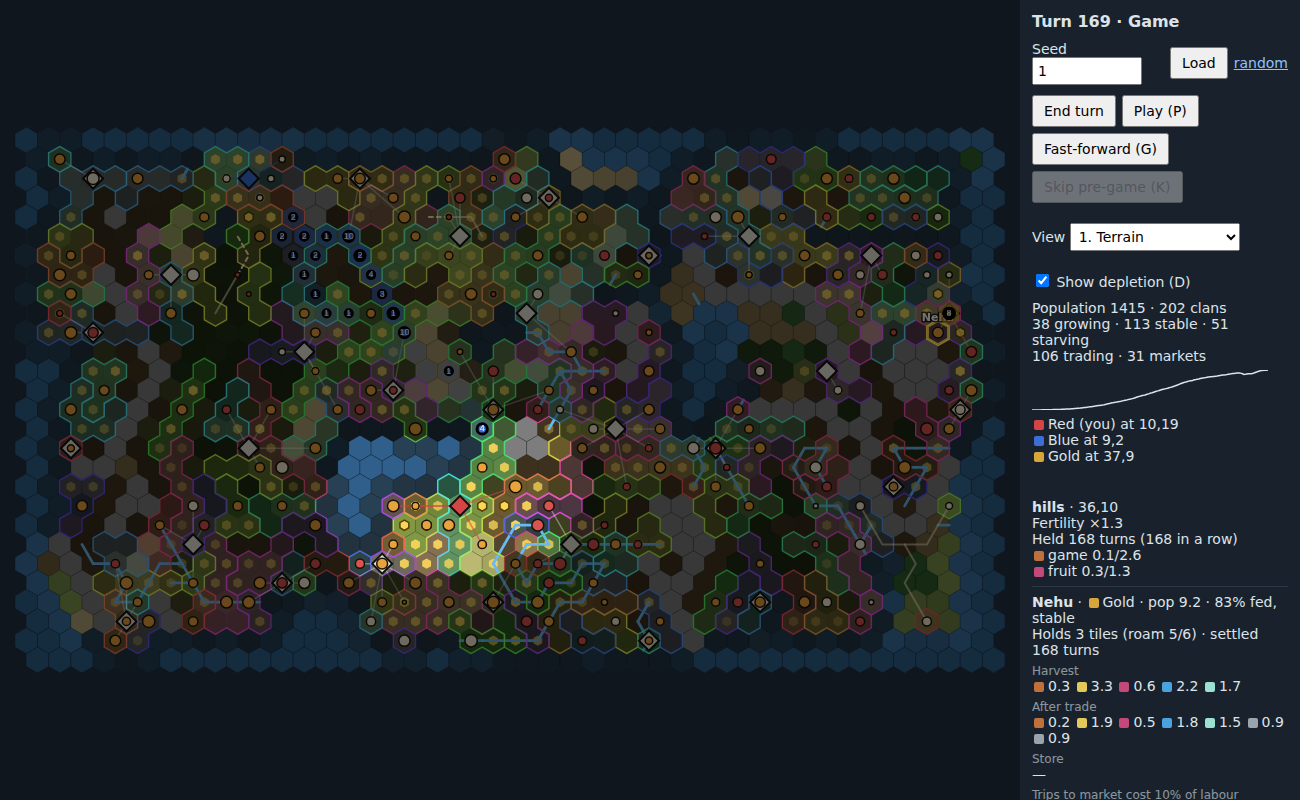
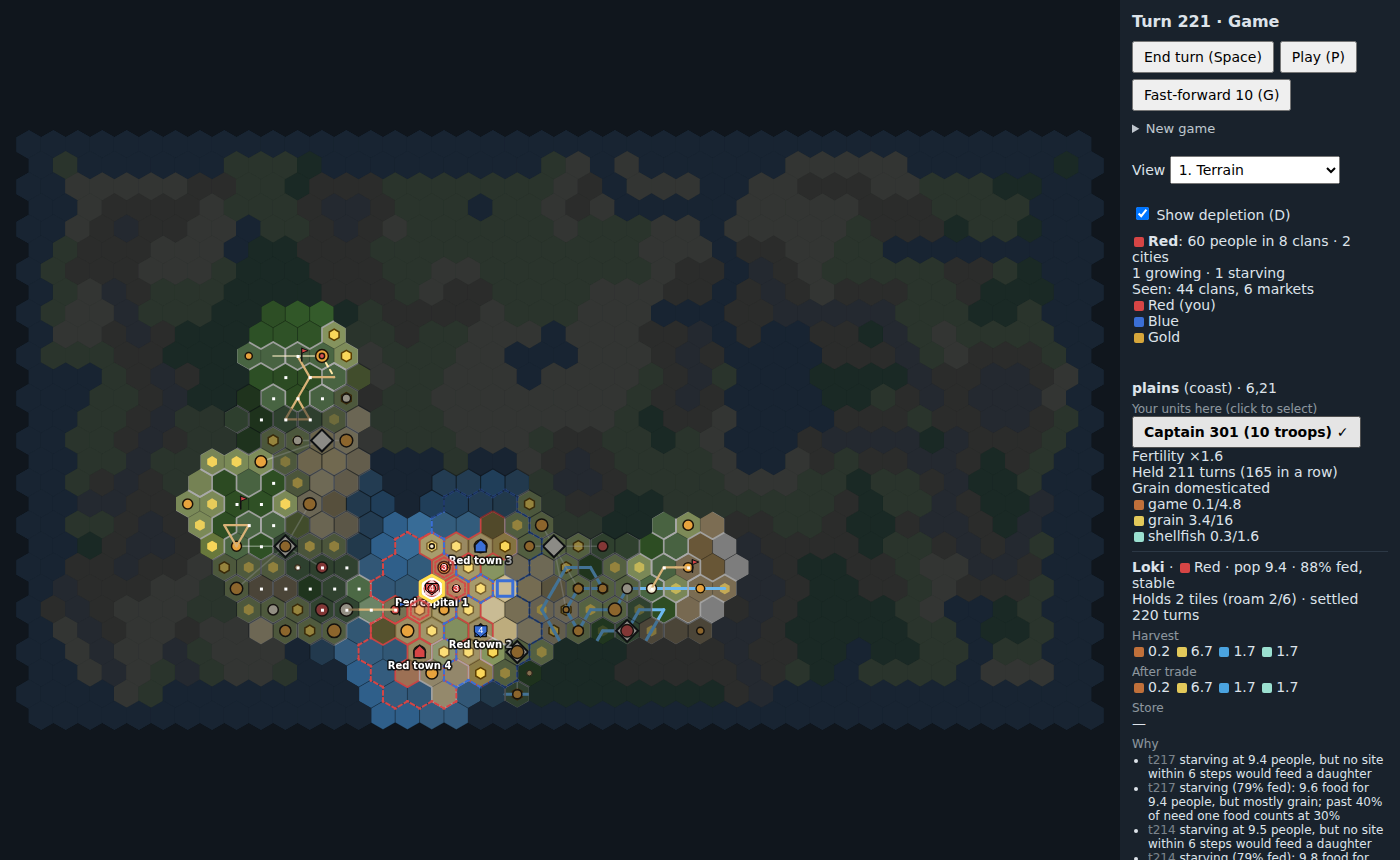
integration: siege and approach alerts, rival city defence in the panel, clearer zones, game-over lock, new screenshot
- garrison base 4 (+1 per 12 people nearby, at most +3; wall +2); healing only when an army did not fight
- alert the human when enemy troops come within 3 of a city and each siege turn
- army panel: garrison per city, real food on Raise army, a rival city's defence when inspected
- zones drawn with a dashed rim; defeat banner names the human; panels lock after game over
- fallen civ panel; discovery hint text; docs/screenshot.png retaken

diff --git a/src/modules/army/ui.js b/src/modules/army/ui.js
@@ -4,7 +4,7 @@
 import { humanCiv, civCities, stepCost, tileAt, passable } from '../../core.js';
 import { FOODS } from '../../data.js';
 import { key, neighbors } from '../../hex.js';
-import { actions, captains, cutOff, orphan, hungry, garrisonMax } from './rules.js';
+import { actions, captains, cutOff, orphan, hungry, garrisonMax, defence } from './rules.js';
 import { ARMY } from './data.js';
 import { supplyLine, foodOf, eatRate, gatherError, actions as supplyActions } from '../supply/rules.js';
 import { SUPPLY } from '../supply/data.js';
@@ -38,6 +38,10 @@ export function drawLayer(ctx, s, view) {
       const [q, r] = k.split(',').map(Number);
       if (u.owner !== view.viewer && !vis({ q, r })) continue;
       view.hexPath(ctx, view.at({ q, r }), view.size * 0.9); ctx.fill();
+      // a bright inner rim so a zone reads even over its own territory
+      ctx.globalAlpha = 0.9; ctx.strokeStyle = col(u.owner); ctx.lineWidth = 2; ctx.setLineDash([3, 2]);
+      view.hexPath(ctx, view.at({ q, r }), view.size * 0.72); ctx.stroke(); ctx.setLineDash([]);
+      ctx.globalAlpha = 0.25;
     }
   }
   ctx.globalAlpha = 1;
@@ -128,7 +132,15 @@ export function panel(s, selection, ui) {
     const food = Math.min(ARMY.size * ARMY.provision, storeFood(s, civ));
     const gmax = garrisonMax(s, c);
     h += `<div>${esc(c.name ?? c.id)}: garrison ${Math.round(c.garrison ?? gmax)}/${gmax}${c.buildings?.wall ? ' (walled)' : ''} `
-      + `${btn(a, `Raise army (${ARMY.size} people from clans, ${food.toFixed(0)} food from the store${food < ARMY.size * ARMY.provision ? `; it wants ${ARMY.size * ARMY.provision}` : ''})`, check(s, a))}</div>`;
+      + `${btn(a, `Raise army (${ARMY.size} people, ${food.toFixed(0)}/${ARMY.size * ARMY.provision} food)`, check(s, a))}</div>`;
+  }
+  // a rival city on the inspected tile: what taking it would cost
+  const foeCity = selection && Object.values(s.cities).find((c) => c.q === selection.q && c.r === selection.r && c.owner !== civ);
+  if (foeCity && visibleTo(s, civ)(foeCity)) {
+    const p = defence(s, foeCity), g = Math.round(foeCity.garrison ?? garrisonMax(s, foeCity));
+    h += `<div><b>${esc(foeCity.name ?? foeCity.id)}</b> (${esc(s.civs[foeCity.owner]?.name ?? '')}): garrison ${g}${foeCity.buildings?.wall ? ', walled' : ''}, `
+      + `defends at ${p.toFixed(1)} power. An army standing on it loses about ${Math.max(1, Math.round(ARMY.dmg * p))} troops a turn; `
+      + `the garrison loses at most ${ARMY.siegeLoss} a turn and regrows when the siege lifts.</div>`;
   }
   const sel = selected(s, ui.local);
   if (sel) h += captainPanel(s, sel, ui.local);

diff --git a/src/modules/army/rules.js b/src/modules/army/rules.js
@@ -393,7 +393,10 @@ function skirmish(s) {
       if (o === fortSide) {
         const x = Math.min(gar.garrison, Math.round(ARMY.dmg * foe / 1.75), isFort ? Infinity : ARMY.siegeLoss);
         gar.garrison -= x; lost[o] = x;
-        if (!isFort) note(s, city.id, `besieged: the garrison lost ${x}, ${gar.garrison} left`);
+        if (!isFort) {
+          note(s, city.id, `besieged: the garrison lost ${x}, ${gar.garrison} left`);
+          alert(s, o, `${city.name ?? 'Your city'} is besieged: its garrison lost ${x}, ${gar.garrison} left`);
+        }
         continue;
       }
       if (foe / Math.max(1e-9, pw[o]) >= ARMY.retreatRatio && rand(s) < ARMY.retreatChance) {
@@ -474,6 +477,20 @@ function capture(s) {
   }
 }
 
+// Warns the human once when enemy troops come within ARMY.warnRange of one of its cities.
+function warn(s) {
+  const m = s.mods.army;
+  const near = {};
+  for (const city of Object.values(s.cities)) {
+    if (!s.civs[city.owner]?.isHuman) continue;
+    const foe = Object.values(s.units).find((u) => u.owner !== city.owner && fighting(u) && distance(u, city) <= ARMY.warnRange);
+    if (!foe) continue;
+    near[city.id] = true;
+    if (!m.near?.[city.id]) alert(s, city.owner, `${civName(s, foe.owner)} troops (${Math.round(foe.army.troops)}) near ${city.name ?? 'your city'} at ${foe.q},${foe.r}`);
+  }
+  m.near = near;
+}
+
 function peaks(s) {
   const m = s.mods.army;
   m.peak ??= {};
@@ -481,14 +498,14 @@ function peaks(s) {
 }
 
 export const turnSteps = [
-  { phase: 'armies', name: 'army spread, skirmish, hold, capture', run(s) { spread(s); skirmish(s); hold(s); capture(s); peaks(s); } },
+  { phase: 'armies', name: 'army spread, skirmish, hold, capture', run(s) { spread(s); skirmish(s); hold(s); capture(s); warn(s); peaks(s); } },
 ];
 export const hooks = {};
 
 // ---- AI --------------------------------------------------------------------------------------
 
 // Defence of a city as an attacker would face it: garrison (if no troops) or troops on the tile.
-function defence(s, city) {
+export function defence(s, city) {
   const t = tileAt(s, city);
   const troops = unitsAt(s, city).filter((u) => u.owner === city.owner && fighting(u));
   if (troops.length) return troops.reduce((a, u) => a + power(s, u, t), 0);

diff --git a/src/main.js b/src/main.js
@@ -54,7 +54,7 @@ function act(action) {
     addLog([`✗ ${action.type}: not your civ`]);
     return false;
   }
-  if (action.type === 'endTurn' && gameOver()) return false;
+  if (gameOver() && action.type !== 'chooseCiv') return false; // the game is over: nothing more to do
   const { state: next, error } = rules.dispatch(state, action);
   if (error) {
     addLog([`✗ ${action.type}: ${error}`]);
@@ -335,7 +335,7 @@ function statusHtml() {
     const kind = state.mods.civ?.winKind ?? 'victory';
     const mine = me && me.id === w?.id;
     html += `<div class="banner ${me ? (mine ? 'win' : 'lose') : 'win'}">${swatch(w?.color ?? '#fff')}` +
-      `${w?.name ?? 'Someone'} wins by ${kind} on turn ${winTurn ?? state.turn - 1}${mine ? ' — you win!' : ''}</div>`;
+      `${w?.name ?? 'Someone'} wins by ${kind} on turn ${winTurn ?? state.turn - 1}${mine ? ' — you win!' : me ? ` — ${me.name} (you) loses` : ''}</div>`;
   } else if (me && state.mods.civ?.lost?.[me.id] != null) {
     html += `<div class="banner lose">${me.name} has fallen (turn ${state.mods.civ.lost[me.id]}). ` +
       `You can keep ending turns to watch, or start a new game.</div>`;
@@ -437,6 +437,7 @@ function renderPanel() {
   document.getElementById('selection').innerHTML = selectionHtml(fog);
   document.getElementById('modules').innerHTML = MODULE_UIS
     .map((ui) => ui.panel?.(state, sel, uiFor(ui.name)) ?? '').filter(Boolean).join('<hr>');
+  if (over) for (const b of document.querySelectorAll('#modules button')) { b.disabled = true; b.title = 'the game is over'; }
   document.getElementById('alerts').innerHTML = alerts.length
     ? `<div class="sub">Alerts</div>${alerts.map((l) => `<div class="alert">${esc(l)}</div>`).join('')}` : '';
   document.getElementById('mineRow').hidden = !humanCiv(state);

diff --git a/src/modules/army/data.js b/src/modules/army/data.js
@@ -1,7 +1,7 @@
 // Tuning for the army module (ported from the paint-army prototype).
 export const ARMY = {
   maxEntr: 3, entrBonus: 0.25, dmg: 0.5, retreatRatio: 3, retreatChance: 0.6,
-  size: 10, garrison: 3, wallMult: 1.5, maxCaptains: 3,
+  size: 10, garrison: 4, wallMult: 1.5, maxCaptains: 3,
   // Defenders in their own city fight at x(1 + CITY.defence) (x wallMult with a wall). Troops dug
   // in (entrenched at least one turn) and garrisons also get x(1 + TERRAIN[terrain].defence).
   hungryPower: 0.5,     // a hungry army defends at this share of its power (and cannot attack)
@@ -12,7 +12,8 @@ export const ARMY = {
   // city's territory (at most garrisonPop more), plus wallGarrison with a wall. It regrows one a
   // turn while no enemy holds the tile. Each garrison troop fights at garrisonPower (x wallMult
   // with a wall) and a siege kills at most siegeLoss of it a turn, so a city takes a few turns.
-  garrisonPer: 15, garrisonPop: 3, wallGarrison: 2, garrisonPower: 1.1, siegeLoss: 2,
+  warnRange: 3,         // the human is alerted when enemy troops come this close to a city
+  garrisonPer: 12, garrisonPop: 3, wallGarrison: 2, garrisonPower: 1.1, siegeLoss: 2,
   // AI forts: a captain builds one on a tile near home (within aiFortHome of an own city) that
   // faces a rival city (within aiFortRival), no closer than aiFortGap to another fort, at most
   // aiForts per civ, when the store holds the cost plus aiFortSpare of each material.

diff --git a/src/modules/civ/ui.js b/src/modules/civ/ui.js
@@ -163,7 +163,7 @@ function discHtml(s, civ) {
   if (!d) return '';
   return `<div class="sub">Discoveries: ${Object.keys(CIV.practice).map((g) => d.known[g] ? `<b>${g}</b>`
     : `${g} ${fmt(Math.min(d.practice[g], CIV.practice[g]))}/${CIV.practice[g]}`).join(' · ')}` +
-    ` (pottery: dig clay by a river; herding: hunt game near a city; trade partners who know it help)</div>`;
+    ` (pottery: dig clay by a river, or hold clay got by trade at half pace; herding: hunt game near a city, or member clans eating game at half pace; trade partners who know it help)</div>`;
 }
 
 function yearsHtml(s, civ) {
@@ -236,6 +236,7 @@ export function panel(s, selection) {
   if (!civ || s.phase !== 'main' || !s.mods.civ?.disc[civ.id]) return '';
   const clans = civClans(s, civ.id);
   const cities = civCities(s, civ.id);
+  if (!cities.length) return `<h3 style="margin:0">${civ.name}</h3><div>${civ.name} has no cities left: its clans have gone their own way.</div>`;
   const sel = selectionHtml(s, civ, selection);
   return `<h3 style="margin:0">${civ.name}</h3>` +
     `<div>${cities.length} cit${cities.length === 1 ? 'y' : 'ies'} · ${clans.length} member clans · ` +

diff --git a/test/army.test.js b/test/army.test.js
@@ -347,3 +347,17 @@ test('raised and promoted armies know their full strength (troopsMax) so supply 
   assert.equal(u.army.troopsMax, ARMY.size);
   void chain;
 });
+
+test('the human is warned once when enemy troops come near a city, and told when it is besieged', () => {
+  const { s, c2, chain } = world();
+  cap(s, c2, chain[2], 10);
+  step(s);
+  assert.equal(alerts(s).filter((e) => /troops \(10\) near C9001/.test(e)).length, 1);
+  s.events = [];
+  step(s);
+  assert.ok(!alerts(s).some((e) => /near C9001/.test(e)), 'only once while they stay');
+  const { s: t, c2: d2, chain: ch } = world();
+  cap(t, d2, ch[0], 10);
+  step(t);
+  assert.ok(alerts(t).some((e) => /C9001 is besieged: its garrison lost 2/.test(e)));
+});
